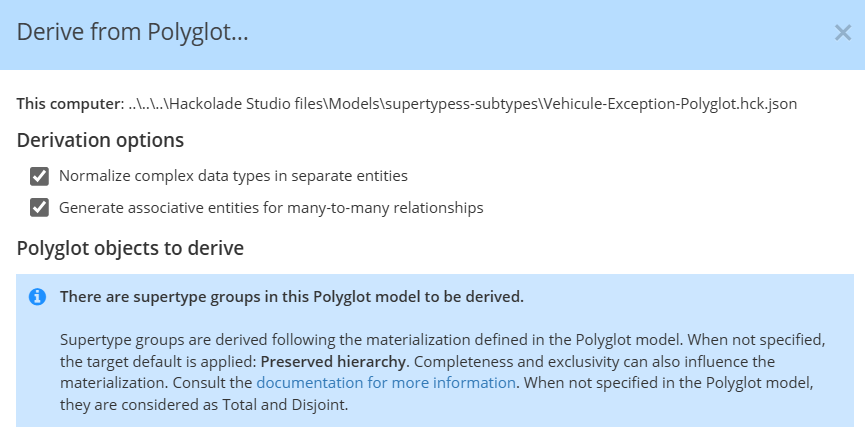
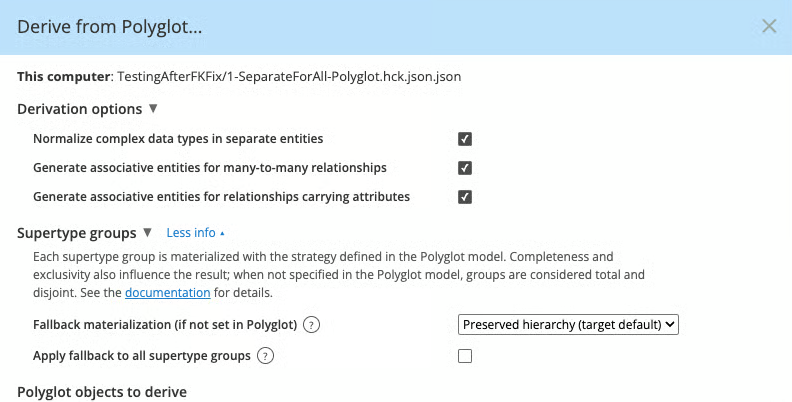
supertype-subtypes derive update

diff --git a/Studio/PowerDesigner.md b/Studio/PowerDesigner.md
@@ -28,22 +28,13 @@ Here are some examples, but there are many, many more…
 
 &nbsp;
 
-* PowerDesigner has the concept called "**stereotypes**".&nbsp; A stereotype is a semantic classification mechanism, that is used to tag modeling objects (entities, tables, attributes, columns, etc.) in order to express meaning, role, or methodology-specific intent. It does not define data types or physical properties.\
-\
-In Hackolade Studio, the same semantic classification use case can be covered by our [user-defined custom properties](<Userdefinedcustomproperties.md>)&nbsp; also described in this [how-to guide](<Configurecustomproperties.md>), and [video](<https://community.hackolade.com/slides/slide/user-defined-custom-properties-8> "target=\"\_blank\"").&nbsp;
-
-  * you can define your own custom properties.
-  * these properties can represent classifications, categories, or tags.
-  * they can be applied consistently to any modeling object.
-
-\
-This provides a flexible and explicit way to model stereotype-like semantics.
+* PowerDesigner has the concept called "**stereotypes**". A stereotype is a semantic classification mechanism, that is used to tag modeling objects (entities, tables, attributes, columns, etc.) in order to express meaning, role, or methodology-specific intent. It does not define data types or physical properties.&nbsp; Reverse-engineering copies the General Stereotype into the [custom property](<Userdefinedcustomproperties.md>) whose keyword is stereotype.&nbsp; If you want that value in the Details tab, declare the property as described in this [how-to guide](<Configurecustomproperties.md>), and [video](<https://community.hackolade.com/slides/slide/user-defined-custom-properties-8> "target=\"\_blank\"").
 
 &nbsp;
 
 * In PowerDesigner,"**shortcuts**" maintain synchronization with their target objects, so changes to the original propagate to all shortcuts. They differ from replicas, which create independent copies.&nbsp; In Hackolade Studio, we call those [references](<Reusableobjectsdefinitions.md>) to existing objects (like entities or tables) in the same model, or a different saved data model, allowing reuse without duplication.&nbsp; When migrating PowerDesigner models to Hackolade Studio, the references must be recreated according to instructions detailed in [this page](<Migrateexternalshortcuts.md>).\
 &nbsp;
-* When creating foreign key relationships in PowerDesigner, the convention is that you drag from the attribute PK in the parent entity towards the child entity.&nbsp; The attribute is automatically created in the child entity and the FK relationship is also created.&nbsp; Hackolade Studio also supports this approach, but it is not the default behavior.&nbsp; To change the default to be like PowerDesigner, simply change the parameter "FK relationships drag-n-drop behavior" in Tools \> Options \> General to become "from parent to child".\
+* When **creating foreign key relationships** in PowerDesigner, the convention is that you drag from the attribute PK in the parent entity towards the child entity.&nbsp; The attribute is automatically created in the child entity and the FK relationship is also created.&nbsp; Hackolade Studio also supports this approach, but it is not the default behavior.&nbsp; To change the default to be like PowerDesigner, simply change the parameter "FK relationships drag-n-drop behavior" in Tools \> Options \> General to become "from parent to child".\
 &nbsp;
 * PowerDesigner allows arrows in relational ERDs [pointing to the parent entity](<https://infocenter-archive.sybase.com/help/index.jsp?topic=/com.sybase.stf.powerdesigner.docs\_12.0.0/html/daug/daugp156.htm> "target=\"\_blank\"").&nbsp; Hackolade Studio uses IE (Information Engineering) notation in ER diagrams, wherer cardinality symbols are used on both sides of relationships.&nbsp; In Graph Diagrams of Hackolade Studio, the arrow represents the semantic orientation of the of relationship, typically of the verb of the relationship.&nbsp; In conceptual modeling in Hackolade Studio, the arrow represents the direction of the active verb, and assumes a parent to child direction.\
 &nbsp;
@@ -51,7 +42,7 @@ This provides a flexible and explicit way to model stereotype-like semantics.
 
 &nbsp;
 
-* PowerDesigner allows to open multiple models in the same application instance.&nbsp; The architecture of Hackolade Studio being different, we allow to start **multiple instances of the application**, each with a single model.&nbsp; This is actually quite handy, as it allows to alt-tab to toggle between different models.&nbsp; As indicated in our [Tips and Tricks](<Tipsandtricks.md>), you may start multiple instances of Hackolade Studio on the same machine session, so as to work on multiple models simultaneously.&nbsp; You may also merge 2 Hackolade models, or combine elements from another model with copy/paste from one model in one application instance, to the other model in the second application instance.&nbsp; From within the application, this is easily done with the shortcut Ctrl+Shift+I (on Mac Cmd+Shift+I) or with the menu option File \> Start New Application Instance.&nbsp; Or from the operating system, on Windows, right-click on the Hackolade icon in the toolbar then choose Hackolade...\
+* PowerDesigner allows to open **multiple models** in the same application instance.&nbsp; The architecture of Hackolade Studio being different, we allow to start **multiple instances of the application**, each with a single model.&nbsp; This is actually quite handy, as it allows to alt-tab to toggle between different models.&nbsp; As indicated in our [Tips and Tricks](<Tipsandtricks.md>), you may start multiple instances of Hackolade Studio on the same machine session, so as to work on multiple models simultaneously.&nbsp; You may also merge 2 Hackolade models, or combine elements from another model with copy/paste from one model in one application instance, to the other model in the second application instance.&nbsp; From within the application, this is easily done with the shortcut Ctrl+Shift+I (on Mac Cmd+Shift+I) or with the menu option File \> Start New Application Instance.&nbsp; Or from the operating system, on Windows, right-click on the Hackolade icon in the toolbar then choose Hackolade...\
 &nbsp;
 * The [Generate property](<https://help.sap.com/docs/SAP\_POWERDESIGNER/856348b84a7c479489d5172a630f014d/c7c99e6e6e1b1014999fba096ab22a45.html> "target=\"\_blank\"") in PowerDesigner as a toggle switch on an object's property sheet to control whether or not that specific component is included when you create a new target model or output script.&nbsp; The equivalent in Hackolade Studio is a boolean property called Activated, and is enabled by default when creating an object. When it is disabled, the object is either commented in the generated script (if the target allows it) or removed from it entirely. During migration of PowerDesigner model into Hackolade Studio, if the Generate property is unchecked in the source file, Studio reverse-engineers that object as deactivated.&nbsp;
 
@@ -84,6 +75,7 @@ Given the above, it should be expected that there is some learning curve to our 
 | Abstract data types (Physical only) | User-Defined Types |
 | Annotation | Annotation |
 | Area (Conceptual \& Logical only) | Container |
+| Check / Business rule | Check constraint A native check on a table or column, and a business rule attached to a table or column that holds a server expression, both become a check constraint. A business rule with no server expression does not get imported. |
 | Code | Technical name |
 | Column (Physical only) | Target specific name (Column, Field, Attribute...) |
 | Comment | Description in non-RDBMS target / Comment in RDBMS target |
@@ -111,6 +103,7 @@ Given the above, it should be expected that there is some learning curve to our 
 | Precision | Scale |
 | Relationship | Relationship |
 | Shortcut | Reference |
+| Stereotype | Custom property stereotype |
 | Symbol | Symbol |
 | Table (Physical only) | Target specific name (Table, Collection, Entity...) |
 | User (Physical only) | Target specific name (Database, Schema, Container...) |
@@ -263,7 +256,7 @@ Inside PowerDesigner files, the different objects are mapped to equivalent objec
 
 \- attributes (columns of fields) and their data types (with length, precision, and scale where applicable), business and technical names, comments and descriptions;&nbsp;
 
-\- constraints: required or not null, unique keys, (composite) primary keys, foreign key relationships and their cardinality;
+\- constraints: required or not null, unique keys, (composite) primary keys, foreign key relationships and their cardinality, and check constraints;
 
 \- views.
 
@@ -283,11 +276,19 @@ Some transformations occur, and extraneous information is ignored.&nbsp; We also
 
 \- Indexes, as long as there is a match between the source technology and the Hackolade Studio target model,
 
+\- check constraints, from a native table or column check, and from an attached business rule with a server expression;
+
 \- database views,
 
 \- domains and [Abstract Data Types](<https://help.sap.com/docs/SAP\_POWERDESIGNER/1f914d86319d43b7b2402532666583c0/b3e01e20f33f45699fe21f6e9fec9e21.html> "target=\"\_blank\""),
 
-\- ExtendedAttributes, mapped them to our custom properties.
+\- ExtendedAttributes, mapped them to our custom properties,
+
+\- the General Stereotype value, mapped to the custom property stereotype;
+
+&nbsp;
+
+If the target has no check property on the column, a column check is stored at the table level.&nbsp;
 
 &nbsp;
 

diff --git a/Studio/DeriveaPolyglotmodelwithsupertyp.md b/Studio/DeriveaPolyglotmodelwithsupertyp.md
@@ -8,11 +8,54 @@ When you derive from a Polyglot model with supertype groups, Hackolade Studio di
 
 &nbsp;
 
-![Inheritance Polyglot derive dialog hint](<lib/Inheritance Polyglot derive dialog hint.png>)
+![Image](<lib/Inheritance Polyglot derive dialog hint.png>)
 
 &nbsp;
 
-This is a&nbsp; reminder that the supertype groups are derived too, following the materialization set in the Polyglot model.&nbsp; When no strategy is set, the default of the target applies, and completeness and exclusivity can change the result.&nbsp;
+Each supertype group is materialized with the strategy defined in the Polyglot model. Completeness and exclusivity also influence the result; when not specified in the Polyglot model, groups are considered total and disjoint.
+
+&nbsp;
+
+&nbsp;
+
+### Fallback materialization
+
+When a group has no **Strategy** in the Polyglot model, choose the shape with **Fallback materialization (if not set in Polyglot)**.&nbsp; The drop-down is pre-selected with the default of the target, labeled (target default).
+
+&nbsp;
+
+The drop-down offers the same four materialization choices as the group property:
+
+* Preserved hierarchy
+* Roll-up flattened with discriminator
+* Roll-up nested
+* Roll-down
+
+&nbsp;
+
+You can leave **Strategy** empty in the Polyglot model on purpose and set materialization only when you derive.&nbsp; The same Polyglot model can then land in a different shape in each physical model.
+
+&nbsp;
+
+**Note:** When you choose Roll-up flattened with discriminator here, you cannot define a discriminator name.&nbsp; You can add it in the derived model afterward if you need it.
+
+&nbsp;
+
+Completeness and exclusivity still come from the Polyglot model. You cannot change them in the derive dialog.
+
+&nbsp;
+
+### Apply fallback to all supertype groups
+
+Check **Apply fallback to all supertype groups** when a given physical model needs a different shape from the one recorded in the Polyglot model.&nbsp; Hackolade Studio then applies the selected fallback to every group, including those that already have a strategy.
+
+&nbsp;
+
+Leave the checkbox cleared, and groups that already have a strategy keep it, including pair-level exceptions defined in the Polyglot model.&nbsp; Only groups without a strategy use the fallback.
+
+&nbsp;
+
+Hackolade Studio remembers those choices for that derived model.&nbsp; When you later update the derived model from the Polyglot model, it applies the same fallback again, including to groups added since the first derivation. You cannot change that choice during update.
 
 &nbsp;
 
@@ -56,6 +99,10 @@ Undesired subtypes in the derived model can be unselected via Ctrl/Cmd + click:
 
 &nbsp;
 
+**Note:** subtypes in the dialog remain visible in the tree, even if the strategy of their group will not derive them as separate entities in the target.&nbsp; The tree lists all entities of the Polyglot model, no matter the strategy.
+
+&nbsp;
+
 The resulting derived model will only contain tables for Vehicle, Motorcycle, and Car:
 
 &nbsp;
@@ -63,7 +110,6 @@ The resulting derived model will only contain tables for Vehicle, Motorcycle, an
 ![Inheritance Polyglot derive result](<lib/Inheritance Polyglot derive result.png>)
 
 \
-**Note:** all subtypes, even if not selected for the derive operation, remain visible in the Object Browser tree.&nbsp; The OB tree lists what was defined in the Polyglot model, i.e. not the selection during the derive operation.\
 &nbsp;
 
 ## Polyglot only property
@@ -74,5 +120,5 @@ An entity marked Polyglot only never reaches a derived model.&nbsp; Inside a sup
 
 ## Derive into another Polyglot model
 
-Polyglot is a target like the other physical targets.&nbsp; When you derive a Polyglot model into another Polyglot model, then the groups are materialized following their strategy, exactly as they would be on a relational or a document-oriented target.
+Polyglot is a target like the other physical targets.&nbsp; When you derive a Polyglot model into another Polyglot model, then the groups are materialized following their strategy, exactly as they would be on a relational or a document-oriented target.&nbsp; The fallback in the derive dialog applies in the same way.
 

diff --git a/Studio/Windows.md b/Studio/Windows.md
@@ -104,9 +104,23 @@ On workstations managed by an IT department, a Microsoft Edge policy (PreventSma
 
 &nbsp;
 
+### Enterprise deployment
+
+Software distributed centrally through Microsoft Intune, Configuration Manager or comparable tools do not go through the browser and are not subject to these prompts. Our installers support unattended installation with the standard switches /VERYSILENT /SUPPRESSMSGBOXES /NORESTART, and the destination folder can be imposed with /DIR="C:\\Hackolade". Administrators may also create a publisher-based allow rule on our code signing certificate, which remains valid across releases. Our support team is happy to assist your packaging team.
+
+&nbsp;
+
+### What we are doing about it
+
+We migrated our code signing to a Microsoft service ([Azure Artifact Signing](<https://learn.microsoft.com/en-us/azure/artifact-signing/overview>))&nbsp; in which signing reputation is associated with a permanent, validated organizational identity rather than with a certificate that must be periodically renewed. Once that migration is complete and reputation has been re-established, these warnings are not expected to recur at future renewals.
+
+&nbsp;
+
+If you encounter any difficulty downloading or installing, please contact [support@hackolade.com](<mailto:support@hackolade.com>) and we will assist you through it
+
 ### Verifying the download
 
-As some users might understanbly question whether the above explanations are legitimate, two independent verifications are available, and we encourage security teams to use them:
+As some users might whether the download is legitimate, two independent verifications are available, and we encourage security teams to use them:
 
 * Checksum: we publish a signed SHA-256 checksum file Hackolade-win64-setup-signed.SHASUM256.txt.asc alongside each installer. Compare it with the value returned by: 
 
@@ -141,21 +155,7 @@ if ($actual -eq $expected) { "MATCH: $actual" } else { "MISMATCH\`n expected: $e
 
 &nbsp;
 
-### Enterprise deployment
-
-Software distributed centrally through Microsoft Intune, Configuration Manager or comparable tools do not go through the browser and are not subject to these prompts. Our installers support unattended installation with the standard switches /VERYSILENT /SUPPRESSMSGBOXES /NORESTART, and the destination folder can be imposed with /DIR="C:\\Hackolade". Administrators may also create a publisher-based allow rule on our code signing certificate, which remains valid across releases. Our support team is happy to assist your packaging team.
-
 &nbsp;
-
-### What we are doing about it
-
-We migrated our code signing to a Microsoft service ([Azure Artifact Signing](<https://learn.microsoft.com/en-us/azure/artifact-signing/overview>))&nbsp; in which signing reputation is associated with a permanent, validated organizational identity rather than with a certificate that must be periodically renewed. Once that migration is complete and reputation has been re-established, these warnings are not expected to recur at future renewals.
-
-&nbsp;
-
-If you encounter any difficulty downloading or installing, please contact [support@hackolade.com](<mailto:support@hackolade.com>) and we will assist you through it
-
-.
 
 ## Standard installation
 

diff --git a/Studio/CollibraDataDictionaryintegratio.md b/Studio/CollibraDataDictionaryintegratio.md
@@ -60,6 +60,8 @@ Hackolade Studio models published to Collibra&nbsp; store and exchange Collibra 
 
 &nbsp;
 
+&nbsp;
+
 ## Publishing process flow
 
 To publish a Hackolade data model to your Collibra Data Dictionary, you choose Tools \> Forward-Engineering \> Collibra Dictionary. &nbsp;
@@ -330,4 +332,42 @@ Custome types scope assignment is defined per connection, allowing different str
 &nbsp;
 
 Changing the scope assignment strategy does not clean, replace, or remove existing scope assignments.
+
+&nbsp;
+
+&nbsp;
+
+## Publish business terms bindings
+
+When you publish a Hackolade Studio data model to Collibra, it is possible also for to publish the bindings between model objects and business terms originating from the Collibra glossaries.&nbsp; You must follow instructions in [this page](<Glossariesofbusinessterms.md>) first, making sure to enable the option **Publish term bindings** to Collibra. &nbsp;
+
+&nbsp;
+
+Each published container, entity, attribute, view, or relationship that is bound to such a term receives the standard Collibra relation **Business Asset represents Data Asset**.&nbsp; The Business Term must already exist in that Collibra instance.&nbsp; Hackolade Studio does not create or update glossary term assets.
+
+&nbsp;
+
+If you unbind a term and publish the model again, Hackolade Studio removes that relation in Collibra so the dictionary matches the current bindings.
+
+&nbsp;
+
+A model can mix glossaries.&nbsp; Only the glossaries with the checkbox enabled take part in this publication.&nbsp; An internal vocabulary can stay assigned for modeling, without being sent to Collibra.
+
+&nbsp;
+
+After publishing to Collibra, it is possible to search for a business term in Collibra, and find all the assets in Collibra that may have been published from Hackolade Studio models.
+
+&nbsp;
+
+**Important:**&nbsp; the identifier of each published term must be a Collibra asset UUID.&nbsp; If the identifier is not a valid Collibra asset ID, then Hackolade Studio stops the publication and displays the following error:
+
+&nbsp;
+
+.![Collibra - missing business term asset](<lib/Collibra - missing business term asset.png>)
+
+&nbsp;
+
+&nbsp;
+
+The page [Glossaries of business terms](<Glossariesofbusinessterms.md>) describes how to assign the glossary file, how to bind terms to modeling objects, and how to enable the publishing of term bindings to Collibra.
 

diff --git a/Studio/Glossariesofbusinessterms.md b/Studio/Glossariesofbusinessterms.md
@@ -179,6 +179,50 @@ Once a glossary is assigned, it is visible in the Properties Pane of the model. 
 
 &nbsp;
 
+&nbsp;
+
+### Collibra as the source of glossaries of business terms
+
+When you export your glossaries of business terms from Collibra, then bind Hackolade Studio model objects to those Collibra terms, it is possible for those binding to be included when the model is published to Collibra.&nbsp; Meaning that you can search for a business term and Collibra and find all the assets using that term.&nbsp; For his, you must select the option as described below.
+
+&nbsp;
+
+When the CSV comes from a Collibra export, set **File mapping** to **Collibra**.&nbsp; Hackolade Studio then maps the usual Collibra headers in the column mappings:
+
+&nbsp;
+
+* **Asset Id** to I**dentifier**
+* **Name** to **Term**
+* **Description** or Full Description to **Definition**
+
+&nbsp;
+
+![Business terms - Collibra file mapping](<lib/Business terms - Collibra file mapping.png>)
+
+&nbsp;
+
+File mapping is only a helper to pre-fill the column mapping quickly.&nbsp; You can still map other columns yourself.&nbsp;
+
+&nbsp;
+
+**Note:** the File mapping value cannot be changed later for the current assignment.&nbsp; If the file is not a Collibra export, leave **File mapping** to **Custom** and map the identifier yourself.
+
+&nbsp;
+
+Choosing **Collibra** in the **File mapping** dropdown list only pre-fills the column mapping.&nbsp; Bindings are published only when Publish term bindings to Collibra is checked.
+
+&nbsp;
+
+![Business terms - publish term bindings to Collibra](<lib/Business terms - publish term bindingCollibra.png>)
+
+&nbsp;
+
+This checkbox works with any file mapping. The identifier of each term must be the Collibra asset ID. The terms must already exist in the Collibra instance you publish to.
+
+New assignments and glossaries assigned before this option leave the checkbox off until you turn it on. You can open an assigned glossary from the model Properties Pane and change the checkbox without unassigning the glossary.
+
+&nbsp;
+
 ## Use glossary terms in a data model
 
 After assigning glossaries, you can use glossary terms in 2 ways:

diff --git a/Studio/VerifyDataModel.md b/Studio/VerifyDataModel.md
@@ -440,3 +440,27 @@ There are different groups of columns in the report:
 
 &nbsp;
 
+Today Studio produces the results as a CSV file only; there is no alternative view or report setting.&nbsp; The columns that answer "which rule failed, and where" are verifRuleName and verifRuleSeverity, then the business names of the object (containerBusName, entityBusName, attribBusName).&nbsp; The GUID columns are only useful for automated processing and can be hidden.
+
+&nbsp;
+
+A quick way to get the view you describe is to ask an AI assistant to generate a small HTML viewer.&nbsp; You give it one report as example, and you get one HTML file that opens any new report in the presentation you want.&nbsp; We suggest to only use an AI tool approved by your organization, as the report contains names from your model.&nbsp;
+
+&nbsp;
+
+Example of prompt (this is just for inspiration, feel free to adapt to your requirements):
+
+&nbsp;
+
+> I attach a CSV report generated by the Verify Data Model function of Hackolade Studio. Create a single self-contained HTML file (HTML, CSS and JavaScript in one file, no external library, no network call) that opens any report with the same structure through a file picker, and displays it in a readable way for data modelers:\
+\- one line per failed rule, showing first the rule name (verifRuleName), the severity (verifRuleSeverity), and the location as a readable path (container \> entity \> attribute), using business names, or technical names when business names are empty;\
+\- a summary at the top with the number of failures per rule and per severity, clickable to filter;\
+\- a search box, and filters on severity, rule and entity;\
+\- a switch to group results by rule or by entity;\
+\- all other columns (GUIDs, glossary values, rule values, attribute properties) hidden by default and shown in a detail panel when I click a line; empty values never displayed.\
+Detect the separator automatically (comma or semicolon) and handle quoted values containing separators. Keep the design clean and simple.
+
+&nbsp;
+
+&nbsp;
+

diff --git a/Studio/Materializeasupertypegroupwhende.md b/Studio/Materializeasupertypegroupwhende.md
@@ -44,9 +44,9 @@ The next pages detail each strategy with a concrete example, to showcase the eff
 
 ## Where to set the strategy
 
-The property belongs to the subtype group, in the Polyglot model. What you set there is the strategy applied to every derivation of that model, whatever the target: your default shape, in other words, for the physical models you generate from it.
+The property belongs to the subtype group, in the Polyglot model. What you set there is the strategy used when you derive, unless you pick a different fallback in the derive dialog.
 
 &nbsp;
 
-In current version, it cannot be overridden at derivation time. If a given physical model needs another shape, you change the property in the Polyglot model and derive again. A future version of Hackolade Studio will let you choose the strategy directly in the derivation, since the same Polyglot model may legitimately deserve different shapes in different physical models.
+See [Derive a Polyglot model with supertype groups](<DeriveaPolyglotmodelwithsupertyp.md>) for Fallback materialization (if not set in Polyglot) and Apply fallback to all supertype groups.
 
